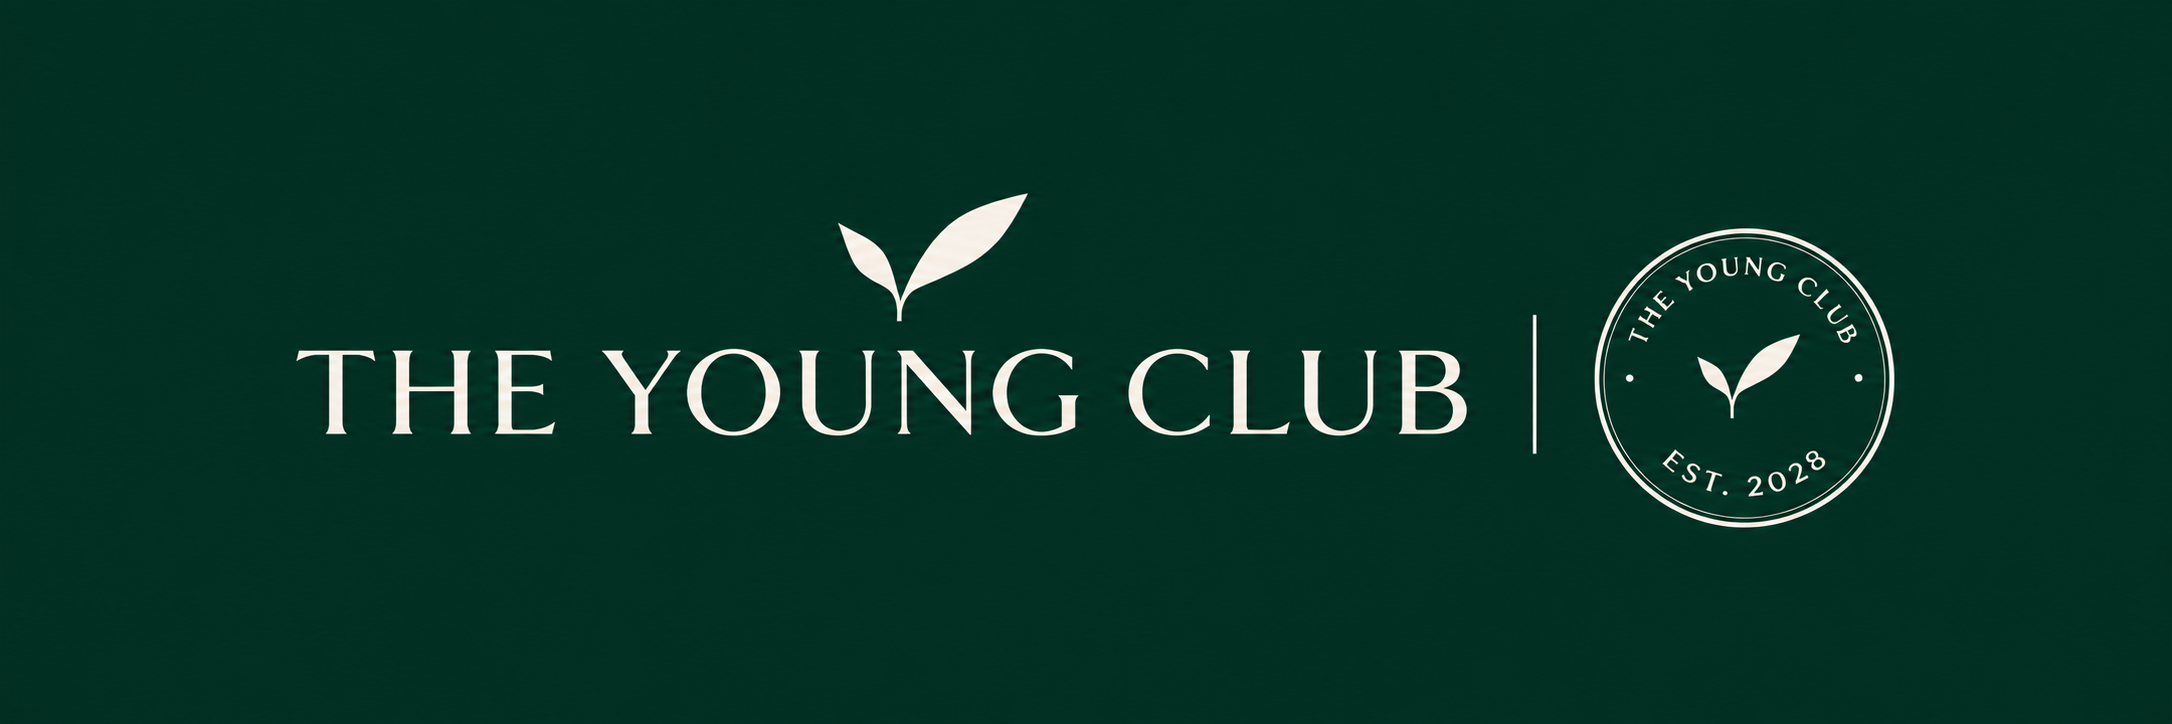
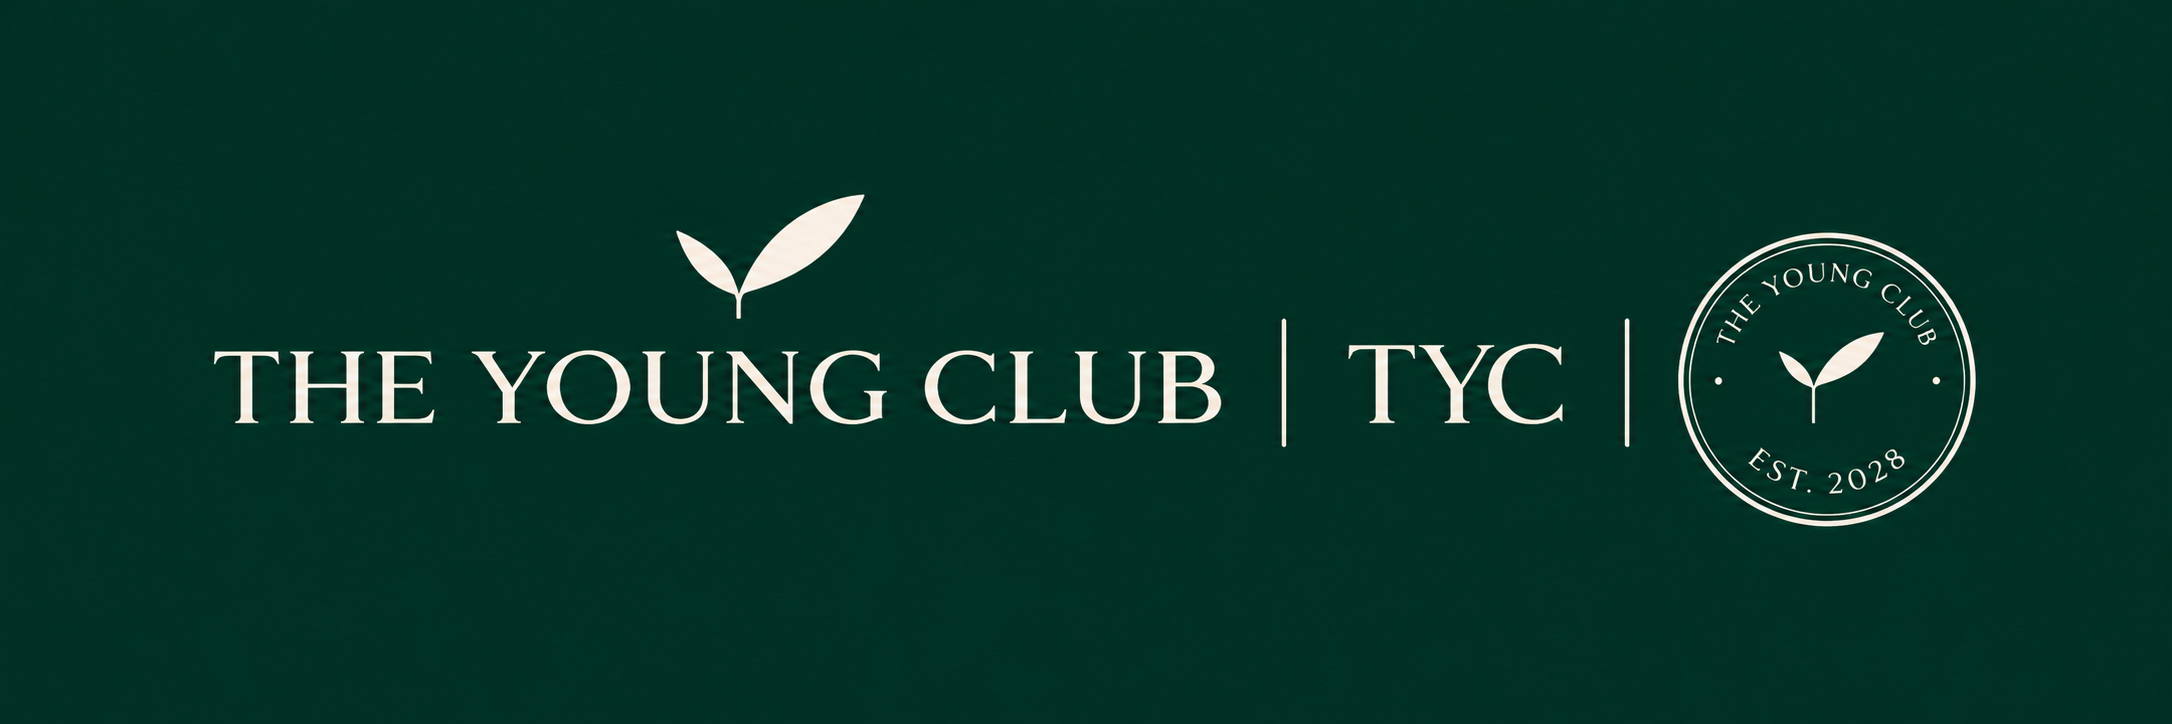
Add files via upload

Changed region(s): [[0.0925, 0.3039, 0.9254, 0.7293], [0.3085, 0.2735, 0.4936, 0.4254]]

diff --git a/index.html b/index.html
@@ -1,17 +1,49 @@
 <!DOCTYPE html>
 <html lang="en">
 <head>
-<meta charset="UTF-8">
-<meta name="viewport" content="width=device-width, initial-scale=1.0">
-<title>THE YOUNG CLUB</title>
-<style>
-*{box-sizing:border-box}
-body{margin:0;background:#023024}
-main{min-height:100vh;display:flex;align-items:center;justify-content:center}
-img{display:block;width:100%;max-width:2172px;height:auto}
-</style>
+  <meta charset="UTF-8">
+  <meta name="viewport" content="width=device-width, initial-scale=1">
+  <meta name="description" content="THE YOUNG CLUB — explore the journal and apparel collection.">
+  <title>THE YOUNG CLUB</title>
+  <style>
+    :root { --green:#003d2d; --cream:#f6efe5; }
+    * {box-sizing:border-box}
+    html,body {margin:0;min-height:100%;font-family:Georgia,'Times New Roman',serif;background:#003b2c;color:var(--cream)}
+    main { min-height:100svh;display:flex;flex-direction:column;align-items:center;justify-content:center;gap:30px;padding:20px 0 }
+    .hero {display:block;position:relative;width:min(100%,2172px);margin-inline:auto;}
+    .hero img {width:100%;height:auto;display:block}
+    .area {position:absolute;display:block;top:19%;height:59%;z-index:2;border-radius:5px;outline-offset:5px}
+    .area:hover {box-shadow: inset 0 0 0 2px rgba(246,239,229,.35)}
+    .area:focus-visible {outline:3px solid var(--cream)}
+    .blog {left:8%;width:47%}
+    .tyc {left:59%;width:15%}
+    .emblem {left:78%;width:17%}
+    .hint {font:13px/1.6 system-ui,-apple-system,sans-serif;letter-spacing:.06em;color:#e5e5db;text-align:center;margin:0 20px}
+    .mobile-links {display:none}
+    @media (max-width:680px) {
+      main {padding:30px 14px;gap:26px}
+      .hero .area {display:none}
+      .hero img {border-radius:3px}
+      .mobile-links {display:grid;gap:12px;width:min(100%,410px)}
+      .mobile-links a {display:block;text-decoration:none;border:1px solid rgba(246,239,229,.48);padding:18px;text-align:center;color:var(--cream);font-size:18px;letter-spacing:.06em}
+      .mobile-links a span {display:block;font:11px system-ui,sans-serif;color:#dddfd6;letter-spacing:.16em;margin-top:7px}
+    }
+    @media (prefers-reduced-motion:no-preference){.area,.mobile-links a{transition:box-shadow .18s ease,background .18s ease}.mobile-links a:hover{background:rgba(246,239,229,.1)}}
+  </style>
 </head>
 <body>
-<main><img src="theyoungclub-hero-with-tyc.png" alt="THE YOUNG CLUB EST. 2028"></main>
+  <main>
+    <div class="hero">
+      <img src="theyoungclub-hero.png" alt="THE YOUNG CLUB wordmark, TYC monogram and EST. 2028 emblem">
+      <a class="area blog" href="blog.html" aria-label="THE YOUNG CLUB — open the journal" title="Explore the journal"></a>
+      <a class="area tyc" href="shop.html" aria-label="TYC — open the apparel page" title="Explore apparel"></a>
+      <a class="area emblem" href="shop.html" aria-label="EST. 2028 emblem — open the apparel page" title="Explore apparel"></a>
+    </div>
+    <p class="hint">THE YOUNG CLUB → JOURNAL &nbsp; · &nbsp; TYC / EMBLEM → APPAREL</p>
+    <nav class="mobile-links" aria-label="Sections">
+      <a href="blog.html">THE YOUNG CLUB<span>JOURNAL & ARTICLES</span></a>
+      <a href="shop.html">TYC · EST. 2028<span>APPAREL & COLLECTIONS</span></a>
+    </nav>
+  </main>
 </body>
 </html>

diff --git a/blog.html b/blog.html
@@ -1,0 +1,23 @@
+<!DOCTYPE html>
+<html lang="en">
+<head>
+  <meta charset="UTF-8"><meta name="viewport" content="width=device-width, initial-scale=1">
+  <title>Journal | THE YOUNG CLUB</title>
+  <style>
+    :root{--green:#173a2d;--cream:#f6efe5;--ink:#293831}
+    *{box-sizing:border-box}body{margin:0;background:#f6efe5;color:var(--ink);font-family:system-ui,-apple-system,sans-serif}
+    header{background:var(--green);color:var(--cream);padding:24px max(20px,calc((100vw - 1020px)/2));display:flex;align-items:center;justify-content:space-between;gap:15px}
+    header a{color:var(--cream);text-decoration:none}header .brand{font-family:Georgia,serif;letter-spacing:.06em;font-size:clamp(17px,3vw,24px)}
+    header nav{display:flex;gap:18px;font-size:13px}main{max-width:1020px;margin:0 auto;padding:78px 24px 130px}
+    .eyebrow{font-size:11px;text-transform:uppercase;letter-spacing:.24em;color:#758277}h1{font:normal clamp(48px,9vw,92px)/1.06 Georgia,serif;margin:18px 0 18px}
+    .sub{font-size:17px;line-height:1.7;max-width:600px;color:#626c65}hr{border:0;border-top:1px solid #cdd3ca;margin:45px 0}
+    .notice{padding:35px;border:1px solid #cdd3ca;background:white;max-width:680px}h2{font:normal 30px Georgia,serif;margin:0 0 12px}p{line-height:1.7}
+    .tag{font-size:12px;letter-spacing:.12em;text-transform:uppercase;color:#597461}
+    footer{padding:30px 24px;text-align:center;color:#66766b;font-size:12px}
+  </style>
+</head>
+<body>
+<header><a href="index.html" class="brand">THE YOUNG CLUB</a><nav><a href="index.html">Home</a><a href="blog.html">Journal</a><a href="shop.html">Apparel</a></nav></header>
+<main><div class="eyebrow">The Young Club / Stories</div><h1>The Journal</h1><p class="sub">Thoughtful notes on movement, personal growth, and everything worth sharing along the way.</p><hr><article class="notice"><div class="tag">Journal · Welcome</div><h2>A New Beginning</h2><p>Welcome to THE YOUNG CLUB. This is the beginning of our journal. New stories and articles will appear here as they're published.</p></article></main>
+<footer>THE YOUNG CLUB · EST. 2028</footer>
+</body></html>

diff --git a/shop.html b/shop.html
@@ -1,0 +1,20 @@
+<!DOCTYPE html>
+<html lang="en">
+<head>
+  <meta charset="UTF-8"><meta name="viewport" content="width=device-width, initial-scale=1">
+  <title>Apparel | THE YOUNG CLUB</title>
+  <style>
+    *{box-sizing:border-box}body{margin:0;background:#163a2c;color:#f6efe5;font-family:Georgia,'Times New Roman',serif;min-height:100svh;display:flex;flex-direction:column}
+    header{padding:26px max(24px,calc((100vw - 1100px)/2));display:flex;align-items:center;justify-content:space-between;gap:15px}
+    header a{color:#f6efe5;text-decoration:none}header .brand{font-size:clamp(17px,3vw,24px);letter-spacing:.06em}nav{display:flex;gap:18px;font:13px system-ui,sans-serif}
+    main{flex:1;display:flex;justify-content:center;align-items:center;padding:50px 25px;text-align:center}.eyebrow{font:12px system-ui,sans-serif;letter-spacing:.24em}
+    h1{font:normal clamp(66px,13vw,145px)/1 Georgia,serif;margin:20px 0}p{font:14px system-ui,sans-serif;letter-spacing:.12em;color:#e0e6db}
+    .rule{width:90px;height:1px;background:#c6d1c3;margin:30px auto}
+    footer{padding:25px;text-align:center;color:#b7c8bc;font:12px system-ui,sans-serif}
+  </style>
+</head>
+<body>
+<header><a href="index.html" class="brand">THE YOUNG CLUB</a><nav><a href="index.html">Home</a><a href="blog.html">Journal</a></nav></header>
+<main><div><div class="eyebrow">THE YOUNG CLUB / APPAREL</div><h1>TYC</h1><div class="rule"></div><p>THE COLLECTION IS COMING SOON</p><p>EST. 2028</p></div></main>
+<footer>THE YOUNG CLUB</footer>
+</body></html>
